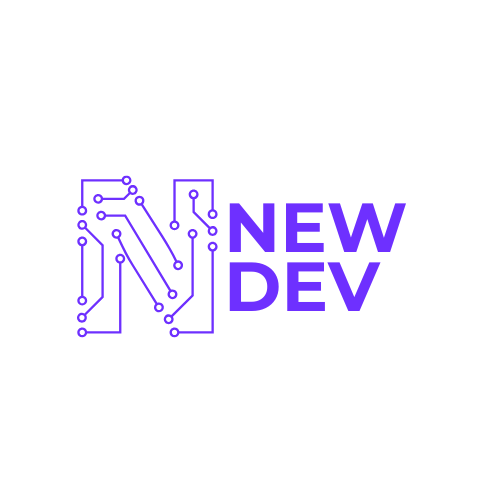
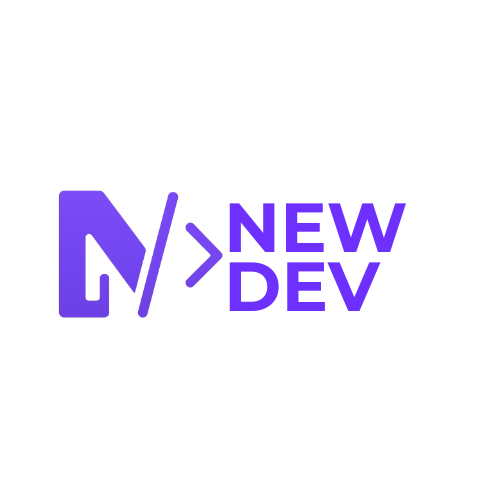
ajustes

Changed region(s): [[0.12, 0.33, 0.45, 0.69]]

diff --git a/src/components/Navbar.jsx b/src/components/Navbar.jsx
@@ -1,5 +1,5 @@
 import React, { useEffect, useState } from "react";
-import ImagemNavBar from "../assets/logo-simple.png";
+import ImagemNavBar from "../assets/logoIA.png";
 import "@fortawesome/fontawesome-free/css/all.min.css";
 
 const Navbar = () => {
@@ -44,7 +44,7 @@ const Navbar = () => {
             scrollToSection("hero");
           }}
         >
-          <img src={ImagemNavBar} id="logoNavBar" alt="Logo" width="75px" />
+          <img src={ImagemNavBar} id="logoNavBar" alt="Logo" width="65px" />
         </div>
 
         <nav className={`nav-links-wrapper ${menuOpen ? "open" : ""}`}>

diff --git a/src/App.css b/src/App.css
@@ -110,7 +110,7 @@ section {
   display: flex;
   justify-content: space-between;
   align-items: center;
-  padding: 1rem 2rem;
+  padding: 0rem 8rem;
   max-width: 1200px;
   margin: 0 auto;
 }
@@ -118,9 +118,10 @@ section {
 .nav-links {
   list-style: none;
   display: flex;
-  gap: 2rem;
+  gap: 3rem;
   margin: 0;
   padding: 0;
+  font-weight: 300;
 }
 
 .link {
@@ -202,6 +203,7 @@ section {
 @media (max-width: 768px) {
   .header {
     width: 90%;
+    padding: 0rem 1rem;
   }
 
   #logoNavBar {
@@ -946,3 +948,4 @@ span {
     font-size: 0.9rem;
   }
 }
+

diff --git a/src/components/Contat.jsx b/src/components/Contat.jsx
@@ -1,5 +1,5 @@
 const Contat = () => (
-    <section id="contat" className="contat-section">
+    <section id="contat" className="contat-section" >
       <h2 className="contat-title">Entre em Contato</h2>
       <p className="contat-description">
         Precisa de ajuda ou quer discutir um projeto? Estou aqui para ajudar! Entre em contato agora mesmo.

diff --git a/src/components/Projetos.jsx b/src/components/Projetos.jsx
@@ -5,7 +5,7 @@ const projetos = [
   ];
   
   const Projetos = () => (
-    <section id="projetos" className="section-projetos">
+    <section id="projetos" className="section-projetos" >
       <h2>Projetos</h2>
       <p className="projetos-description">
         Explore alguns dos projetos que destacam nossa criatividade e experiência técnica.

diff --git a/index.html b/index.html
@@ -2,7 +2,7 @@
 <html lang="pt-BR">
   <head>
     <meta charset="UTF-8" />
-    <link rel="icon" type="image/svg+xml" href="/src/assets/N.png" />
+    <link rel="icon" type="image/svg+xml" href="/src/assets/iconNewDev.png" />
     <meta name="viewport" content="width=device-width, initial-scale=1.0" />
     <title>NewDev</title>
   </head>

diff --git a/src/components/Hero.jsx b/src/components/Hero.jsx
@@ -1,7 +1,7 @@
 import logoNewDev from '../assets/NewDev.png';
 
 const Hero = () => (
-    <section id="hero" className="hero pt-20">
+    <section id="hero" className="hero pt-20" >
 
       <div className="container-hero1">
         <p className="hero-subtitle" data-aos="fade-up">

diff --git a/src/components/Sobre.jsx b/src/components/Sobre.jsx
@@ -1,6 +1,6 @@
 const Sobre = () => {
   return (
-    <section className="section-sobre" id="sobre">
+    <section className="section-sobre" id="sobre"  >
       <div className="sobre-conteudo">
         <h2>Quem somos?</h2>
         <p className="section-text destaque">

diff --git a/src/components/Servicos.jsx b/src/components/Servicos.jsx
@@ -1,6 +1,6 @@
 const Servicos = () => {
   return (
-    <section id="servicos" className="section-servicos">
+    <section id="servicos" className="section-servicos"  >
       <h2>Serviços</h2>
       <div className="servicos">
         <div className="servico">

diff --git a/src/App.jsx b/src/App.jsx
@@ -13,7 +13,7 @@ import '@fortawesome/fontawesome-free/css/all.min.css';
 
 function App() {
   useEffect(() => {
-    AOS.init({ duration: 1000 });
+    AOS.init({ duration: 1000, once: true });
   }, []);
 
   return (
